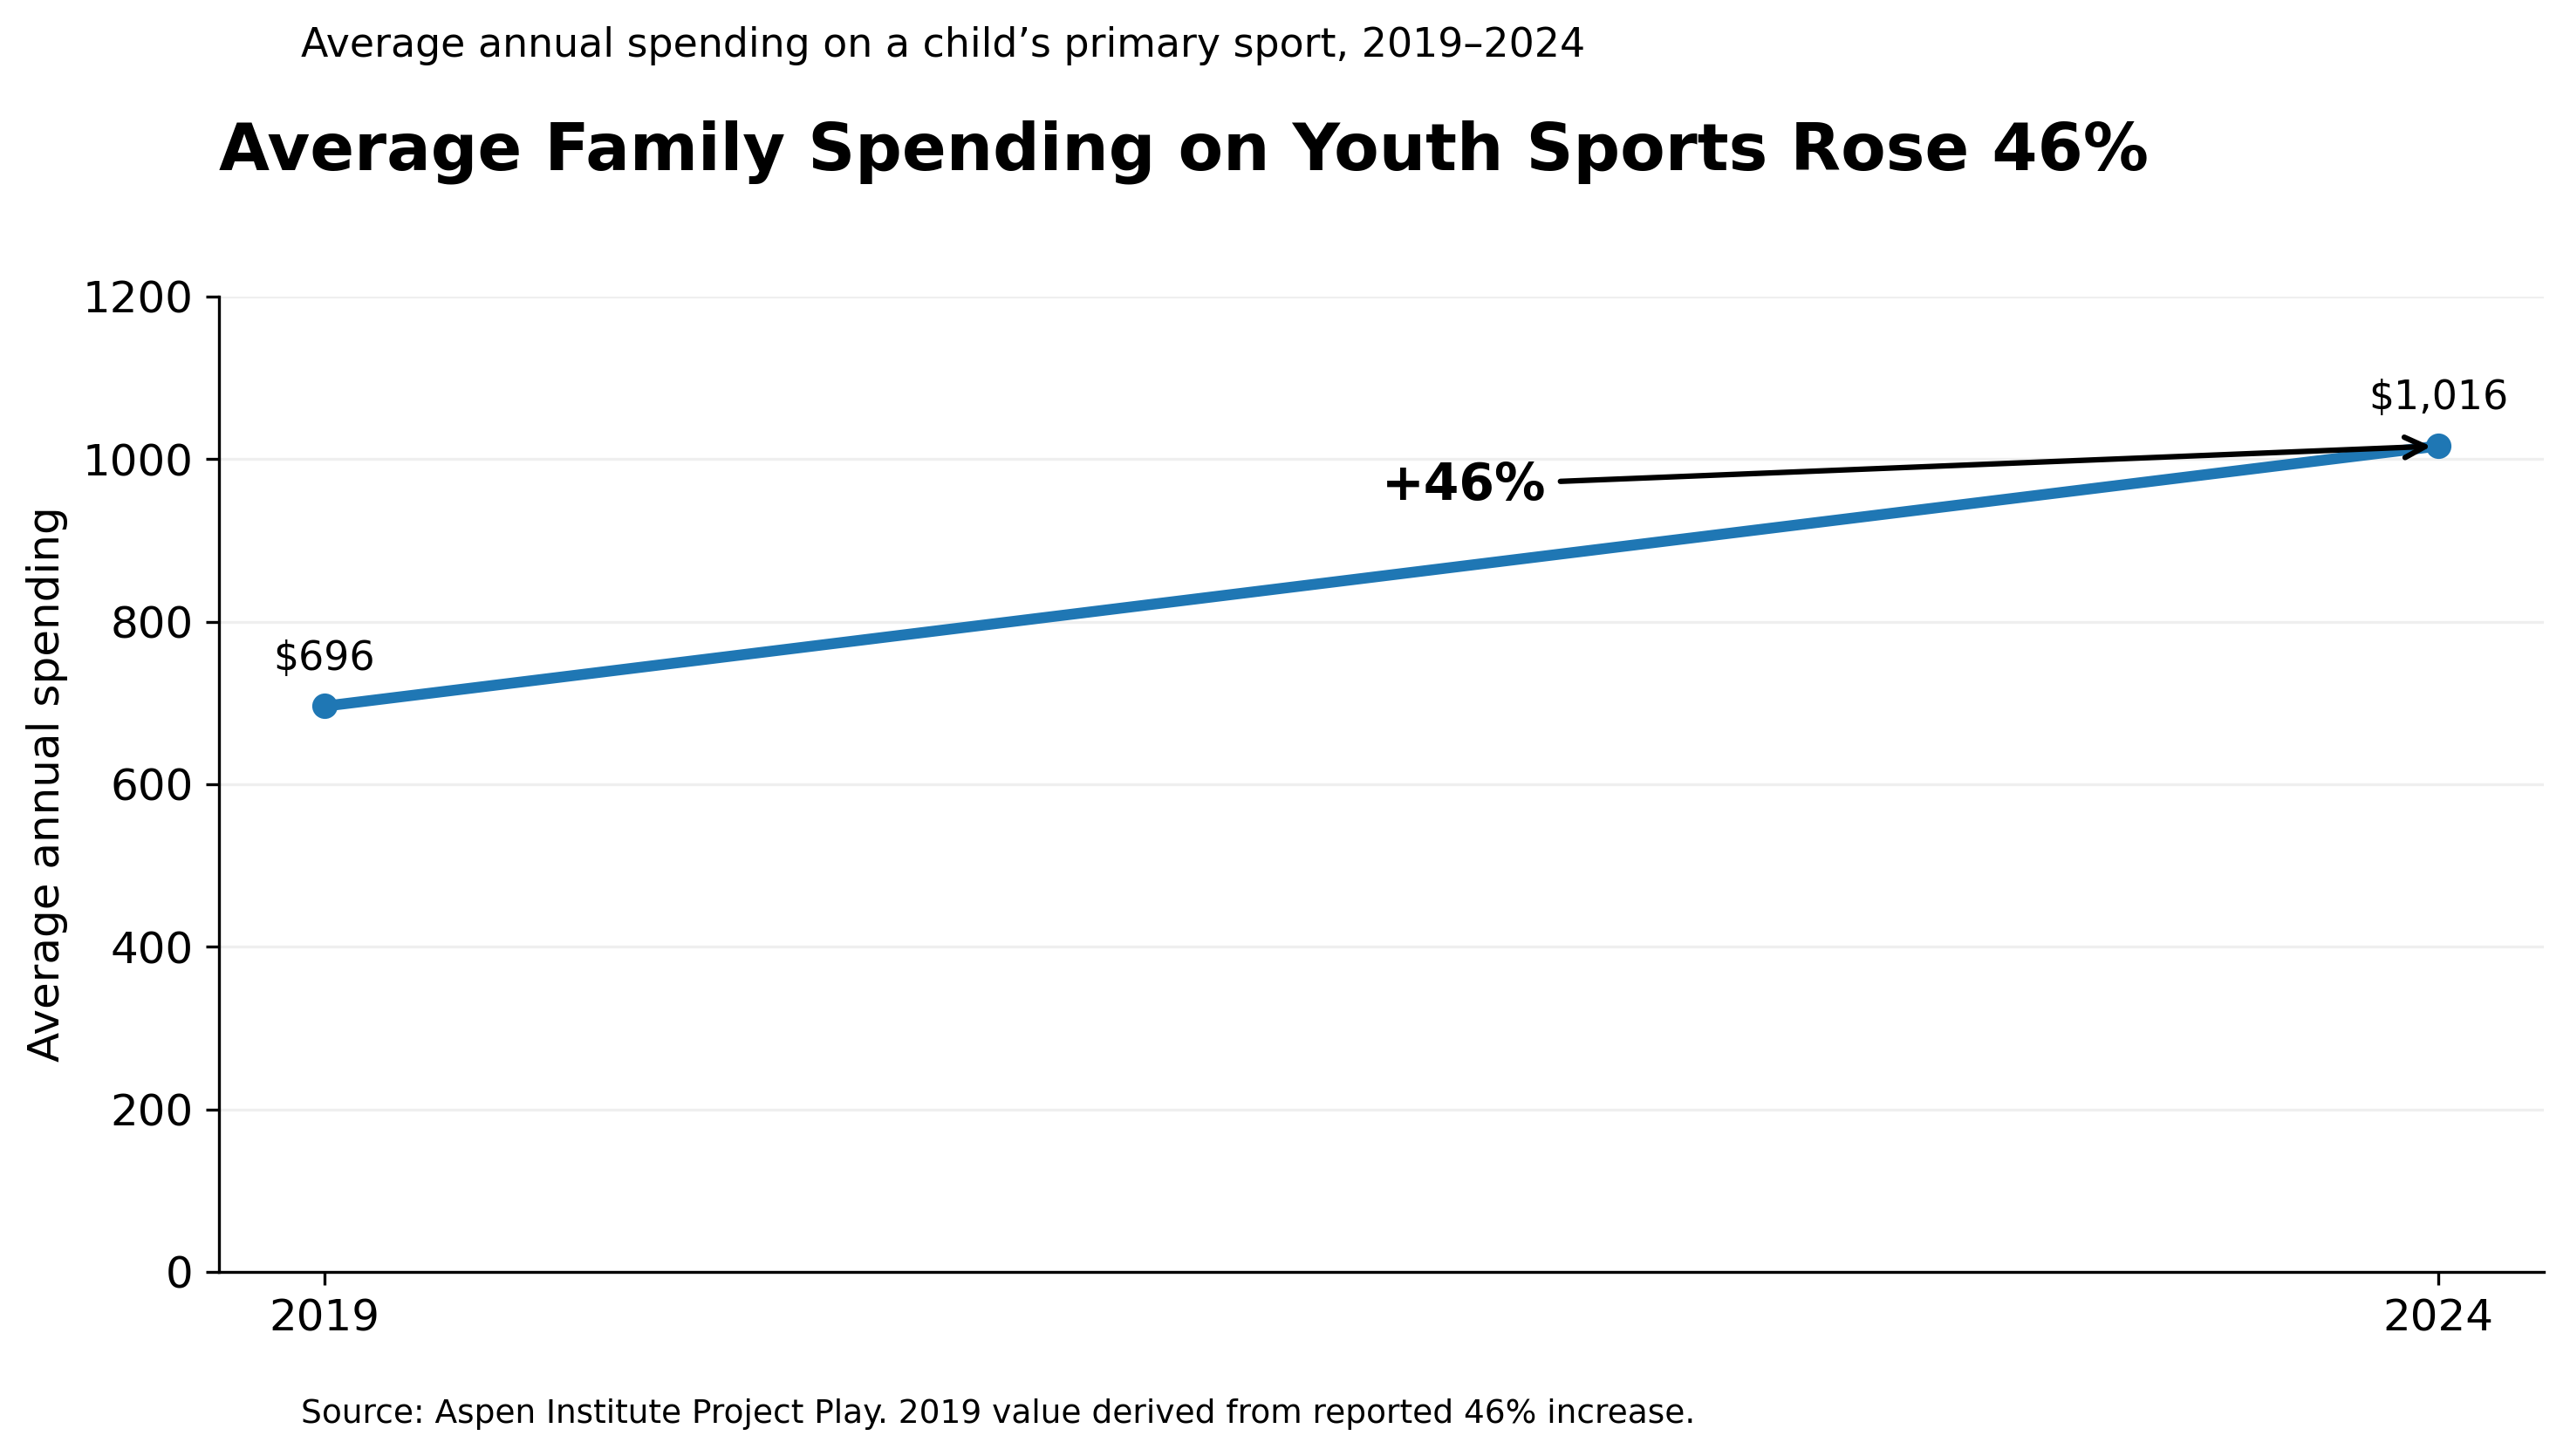
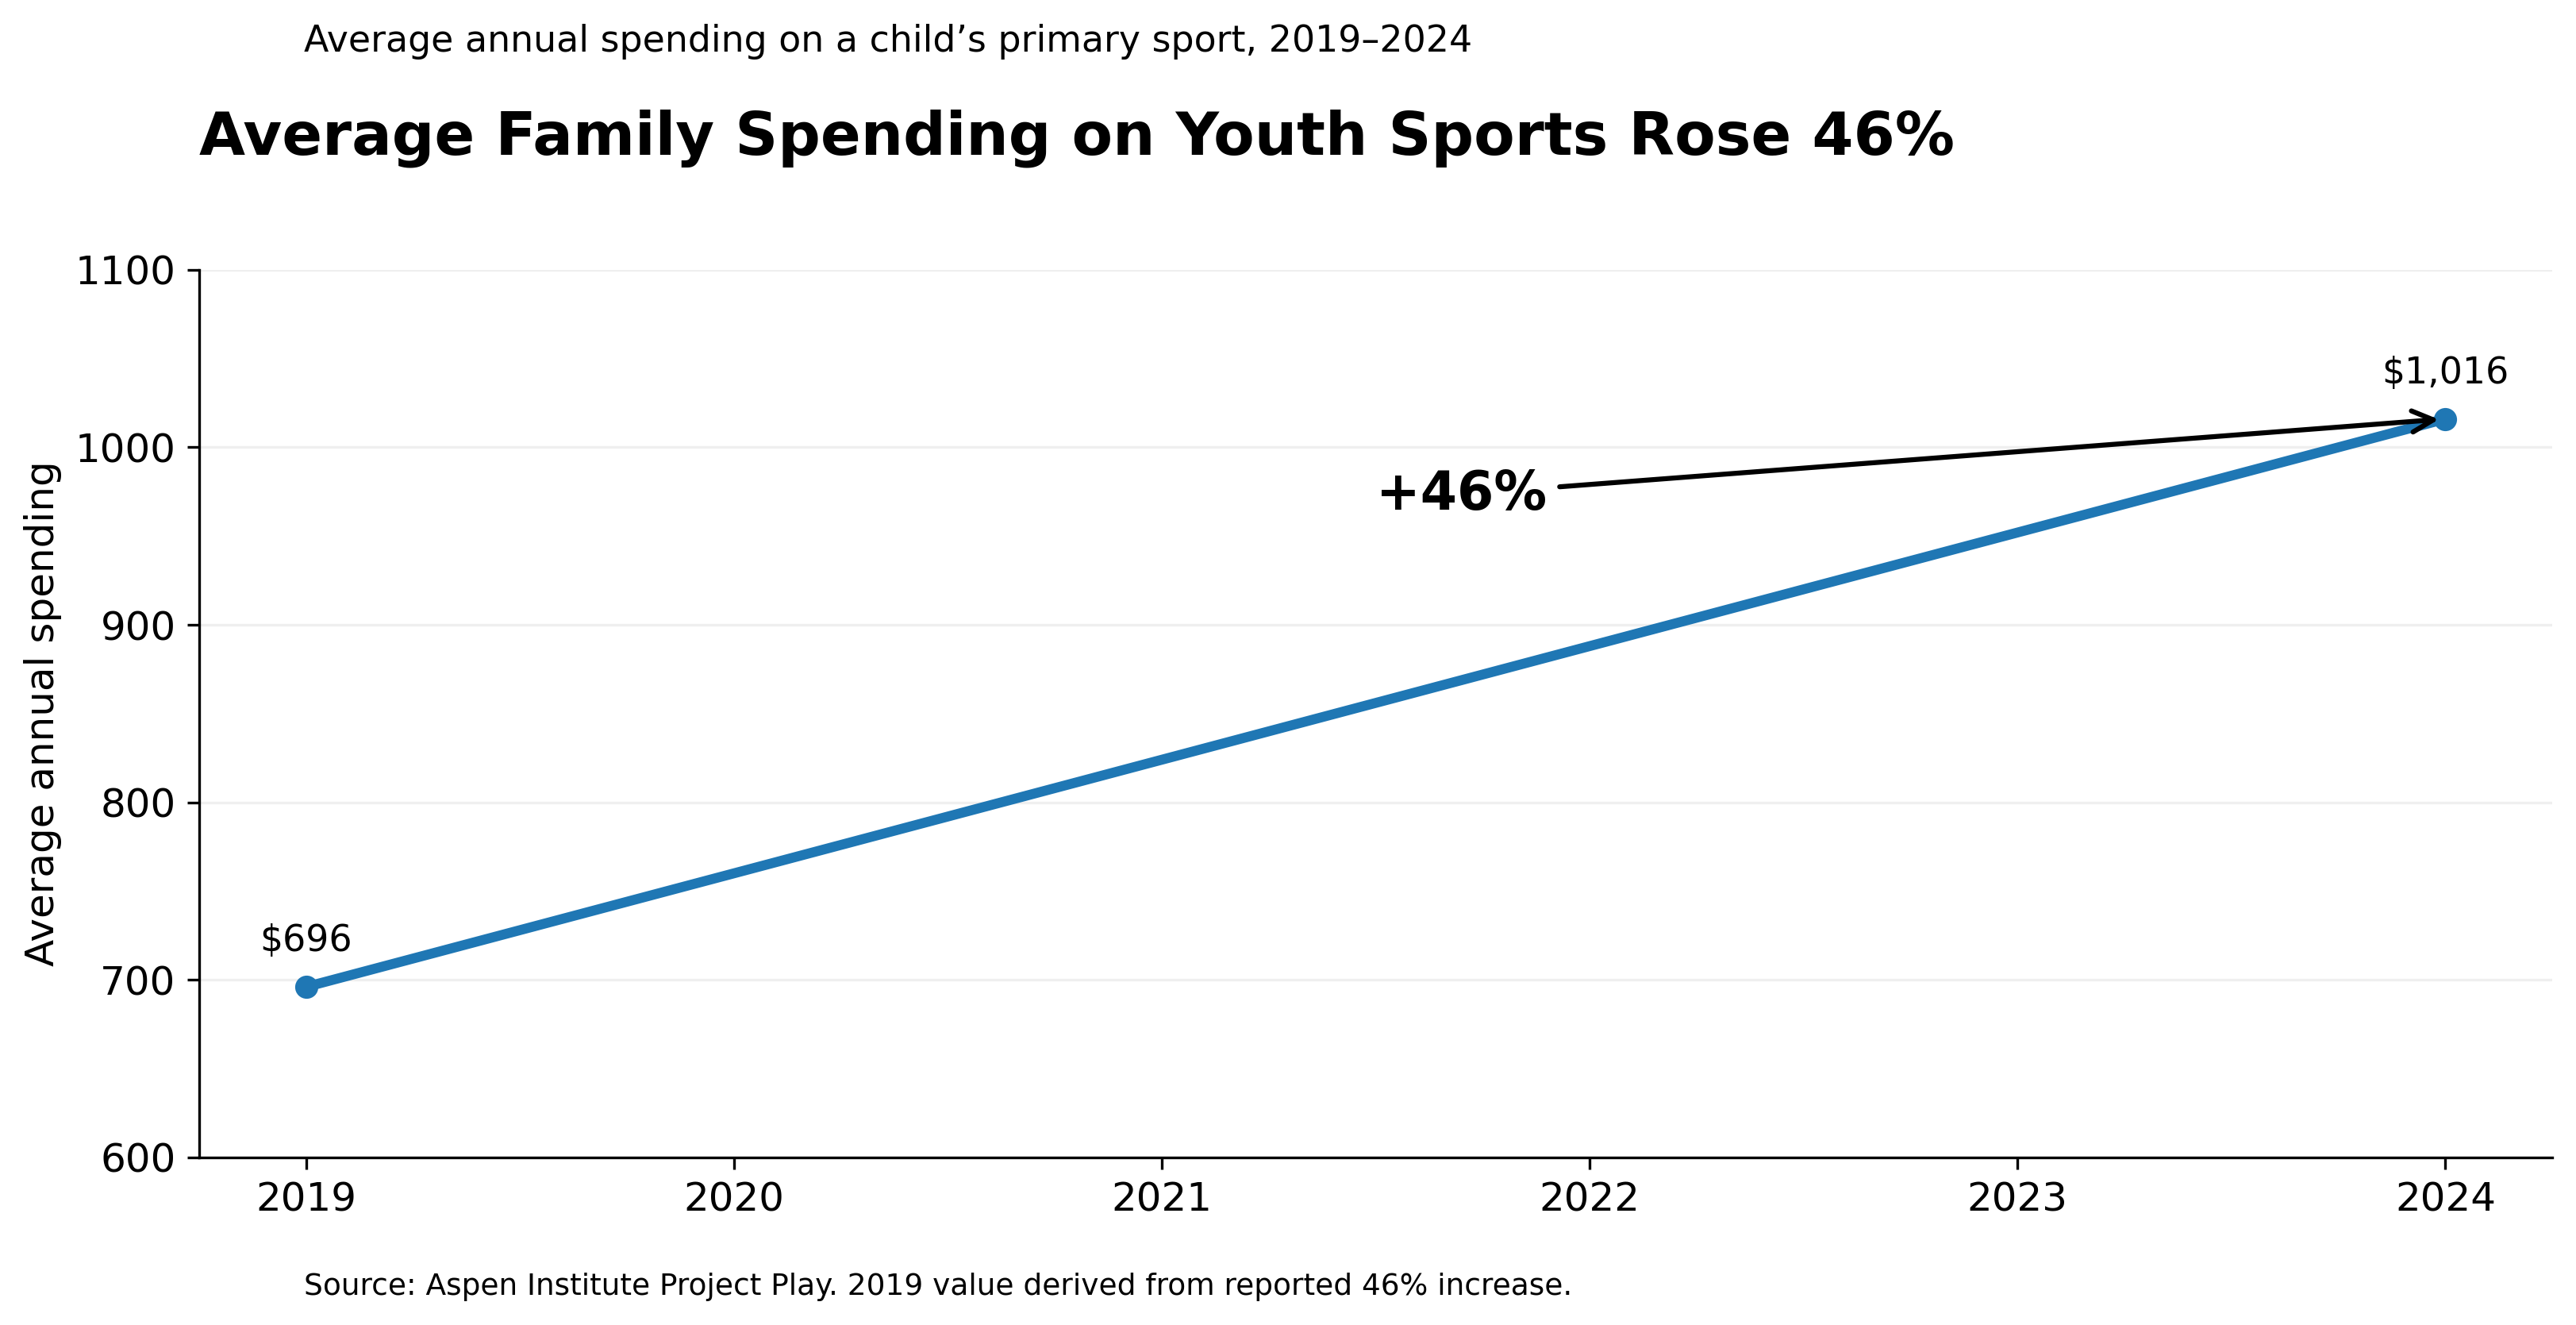
Refine spending trend visualization

diff --git a/notebooks/02_family_spending_trend.py b/notebooks/02_family_spending_trend.py
@@ -2,15 +2,29 @@ import pandas as pd
 import matplotlib.pyplot as plt
 from pathlib import Path
 
+# -----------------------------
+# Create visuals directory
+# -----------------------------
+
 visuals_dir = Path("visuals")
 visuals_dir.mkdir(exist_ok=True)
 
-# Aspen Institute / Project Play reported 2024 average spending of $1,016,
-# up 46% since 2019. 2019 value is derived as 1016 / 1.46.
+# -----------------------------
+# Data
+# -----------------------------
+
+# Aspen Institute / Project Play reported:
+# 2024 average spending = $1,016
+# 46% increase since 2019
+
 data = pd.DataFrame({
     "year": [2019, 2024],
-    "avg_spending": [1016 / 1.46, 1016]
+    "avg_spending": [696, 1016]
 })
+
+# -----------------------------
+# Style
+# -----------------------------
 
 plt.rcParams.update({
     "font.size": 12,
@@ -18,7 +32,11 @@ plt.rcParams.update({
     "axes.labelsize": 12
 })
 
-fig, ax = plt.subplots(figsize=(10, 6))
+fig, ax = plt.subplots(figsize=(11, 6))
+
+# -----------------------------
+# Line chart
+# -----------------------------
 
 ax.plot(
     data["year"],
@@ -26,6 +44,10 @@ ax.plot(
     marker="o",
     linewidth=3
 )
+
+# -----------------------------
+# Titles
+# -----------------------------
 
 ax.set_title(
     "Average Family Spending on Youth Sports Rose 46%",
@@ -41,33 +63,52 @@ fig.text(
     fontsize=11
 )
 
+# -----------------------------
+# Axis formatting
+# -----------------------------
+
 ax.set_ylabel("Average annual spending")
 ax.set_xlabel("")
-ax.set_xticks(data["year"])
-ax.set_ylim(0, 1200)
+
+ax.set_xticks([2019, 2020, 2021, 2022, 2023, 2024])
+
+# Tighter Y-axis for visual impact
+ax.set_ylim(600, 1100)
 
 ax.spines["top"].set_visible(False)
 ax.spines["right"].set_visible(False)
 
 ax.grid(axis="y", alpha=0.2)
 
+# -----------------------------
+# Data labels
+# -----------------------------
+
 for _, row in data.iterrows():
     ax.text(
         row["year"],
-        row["avg_spending"] + 45,
+        row["avg_spending"] + 20,
         f"${row['avg_spending']:,.0f}",
         ha="center",
         fontsize=11
     )
 
+# -----------------------------
+# Growth annotation
+# -----------------------------
+
 ax.annotate(
     "+46%",
     xy=(2024, 1016),
-    xytext=(2021.5, 950),
+    xytext=(2021.5, 965),
     arrowprops=dict(arrowstyle="->", lw=1.5),
-    fontsize=14,
+    fontsize=16,
     weight="bold"
 )
+
+# -----------------------------
+# Source note
+# -----------------------------
 
 fig.text(
     0.125,
@@ -76,9 +117,17 @@ fig.text(
     fontsize=9
 )
 
+# -----------------------------
+# Layout
+# -----------------------------
+
 plt.tight_layout(rect=[0, 0.04, 1, 0.88])
 
-output_file = visuals_dir / "family_spending_trend.png"
+# -----------------------------
+# Save chart
+# -----------------------------
+
+output_file = Path(__file__).resolve().parents[1] / "visuals" / "family_spending_trend.png"
 
 plt.savefig(
     output_file,
@@ -86,6 +135,6 @@ plt.savefig(
     bbox_inches="tight"
 )
 
-plt.show()
+plt.close()
 
 print(f"Saved chart to: {output_file}")